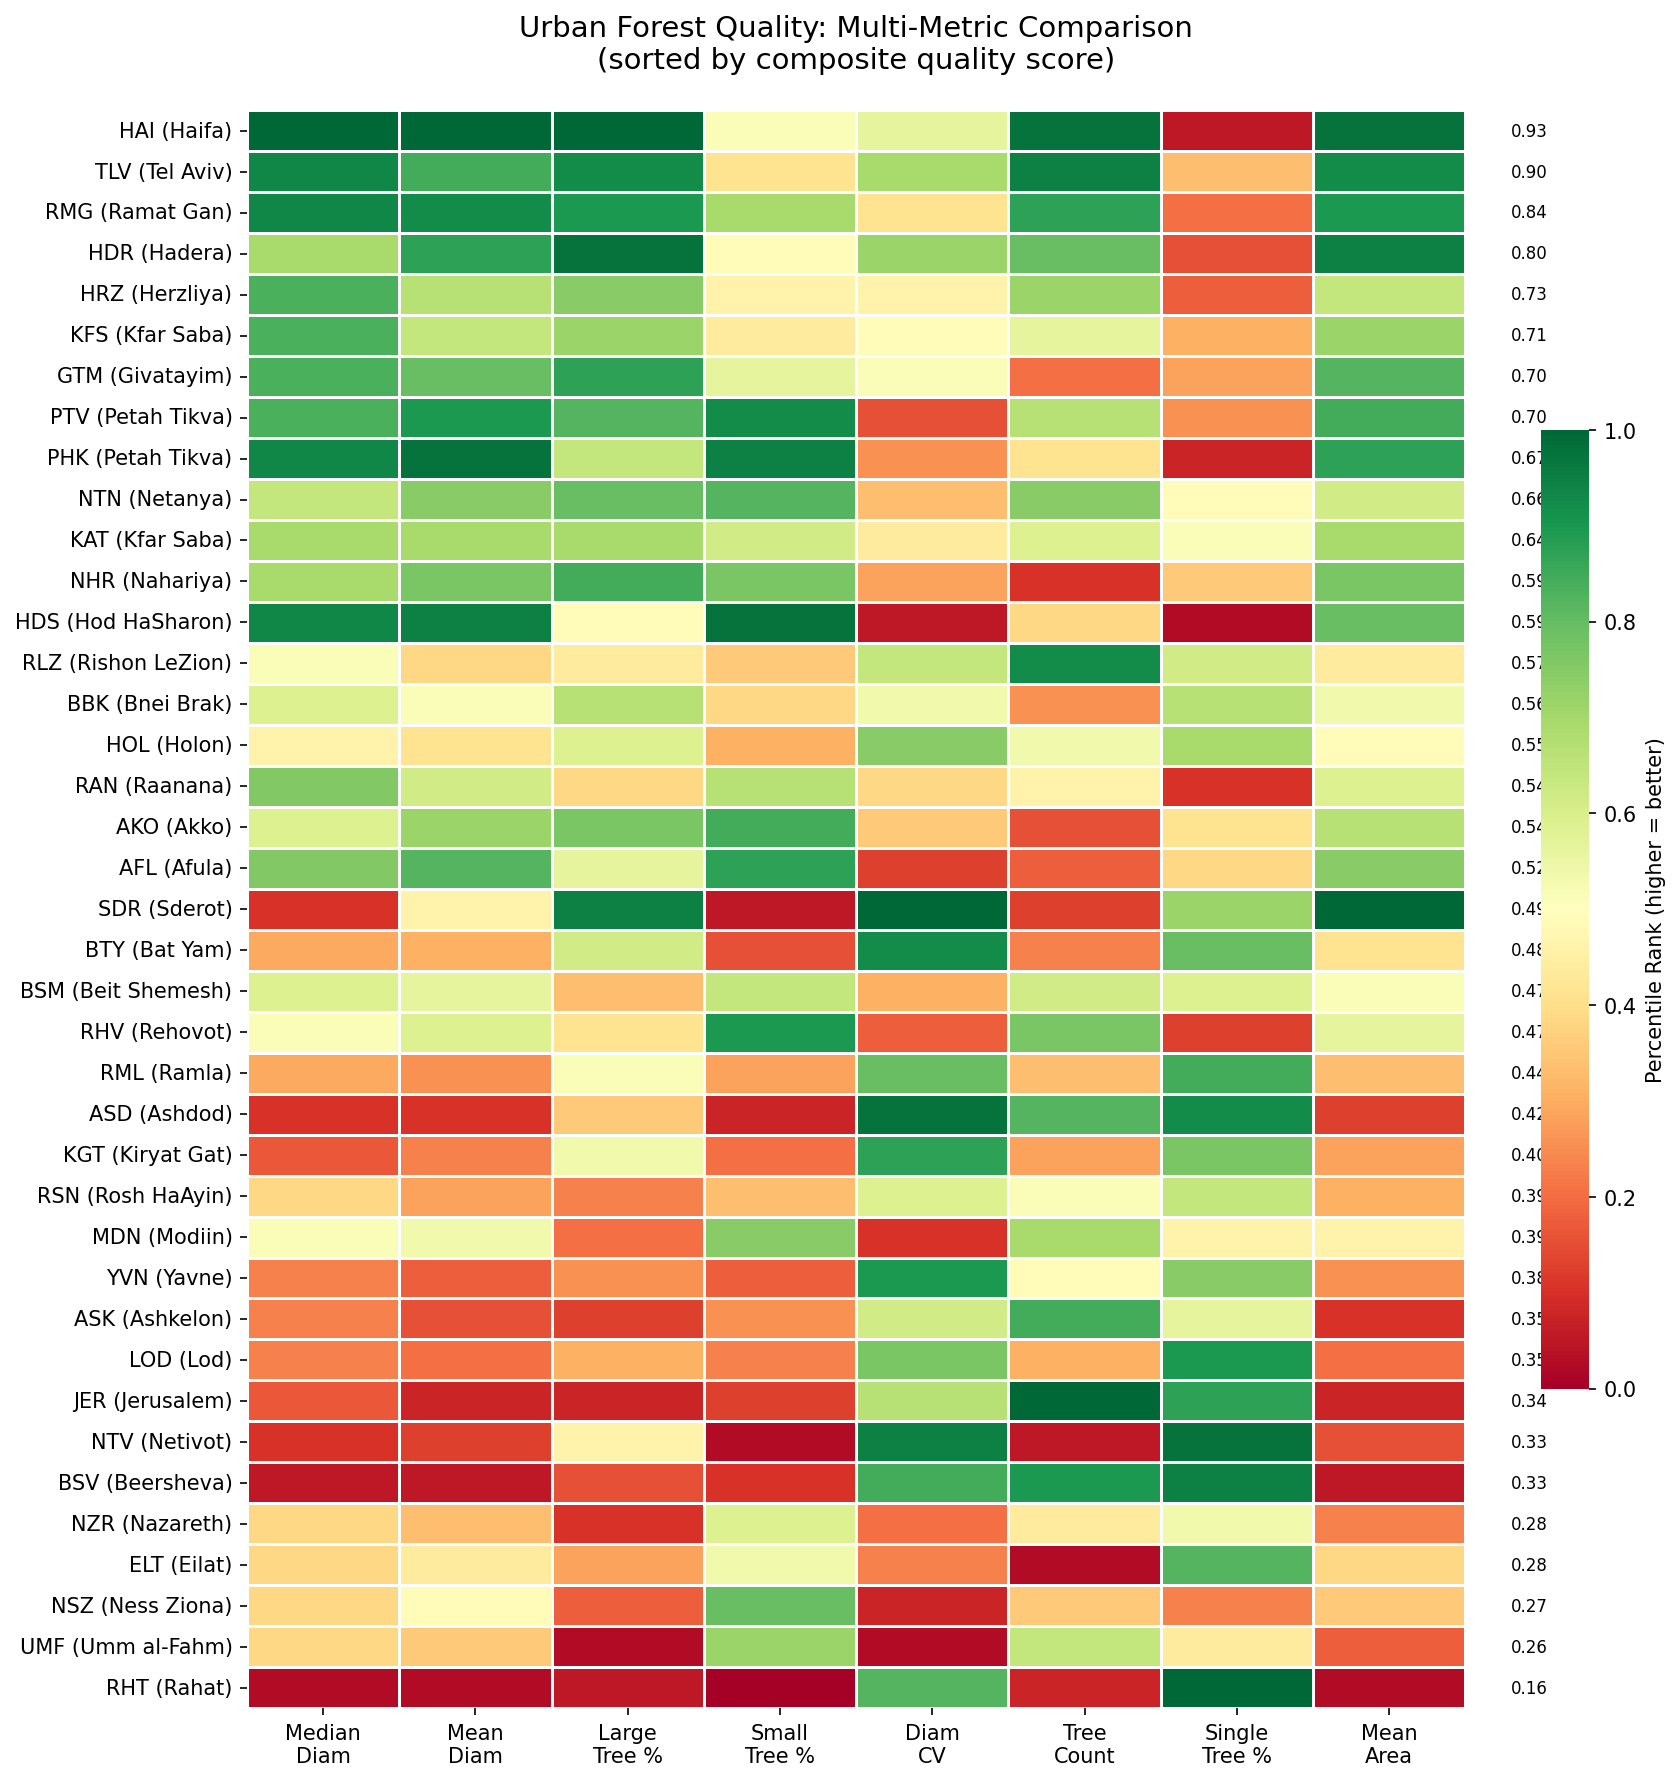
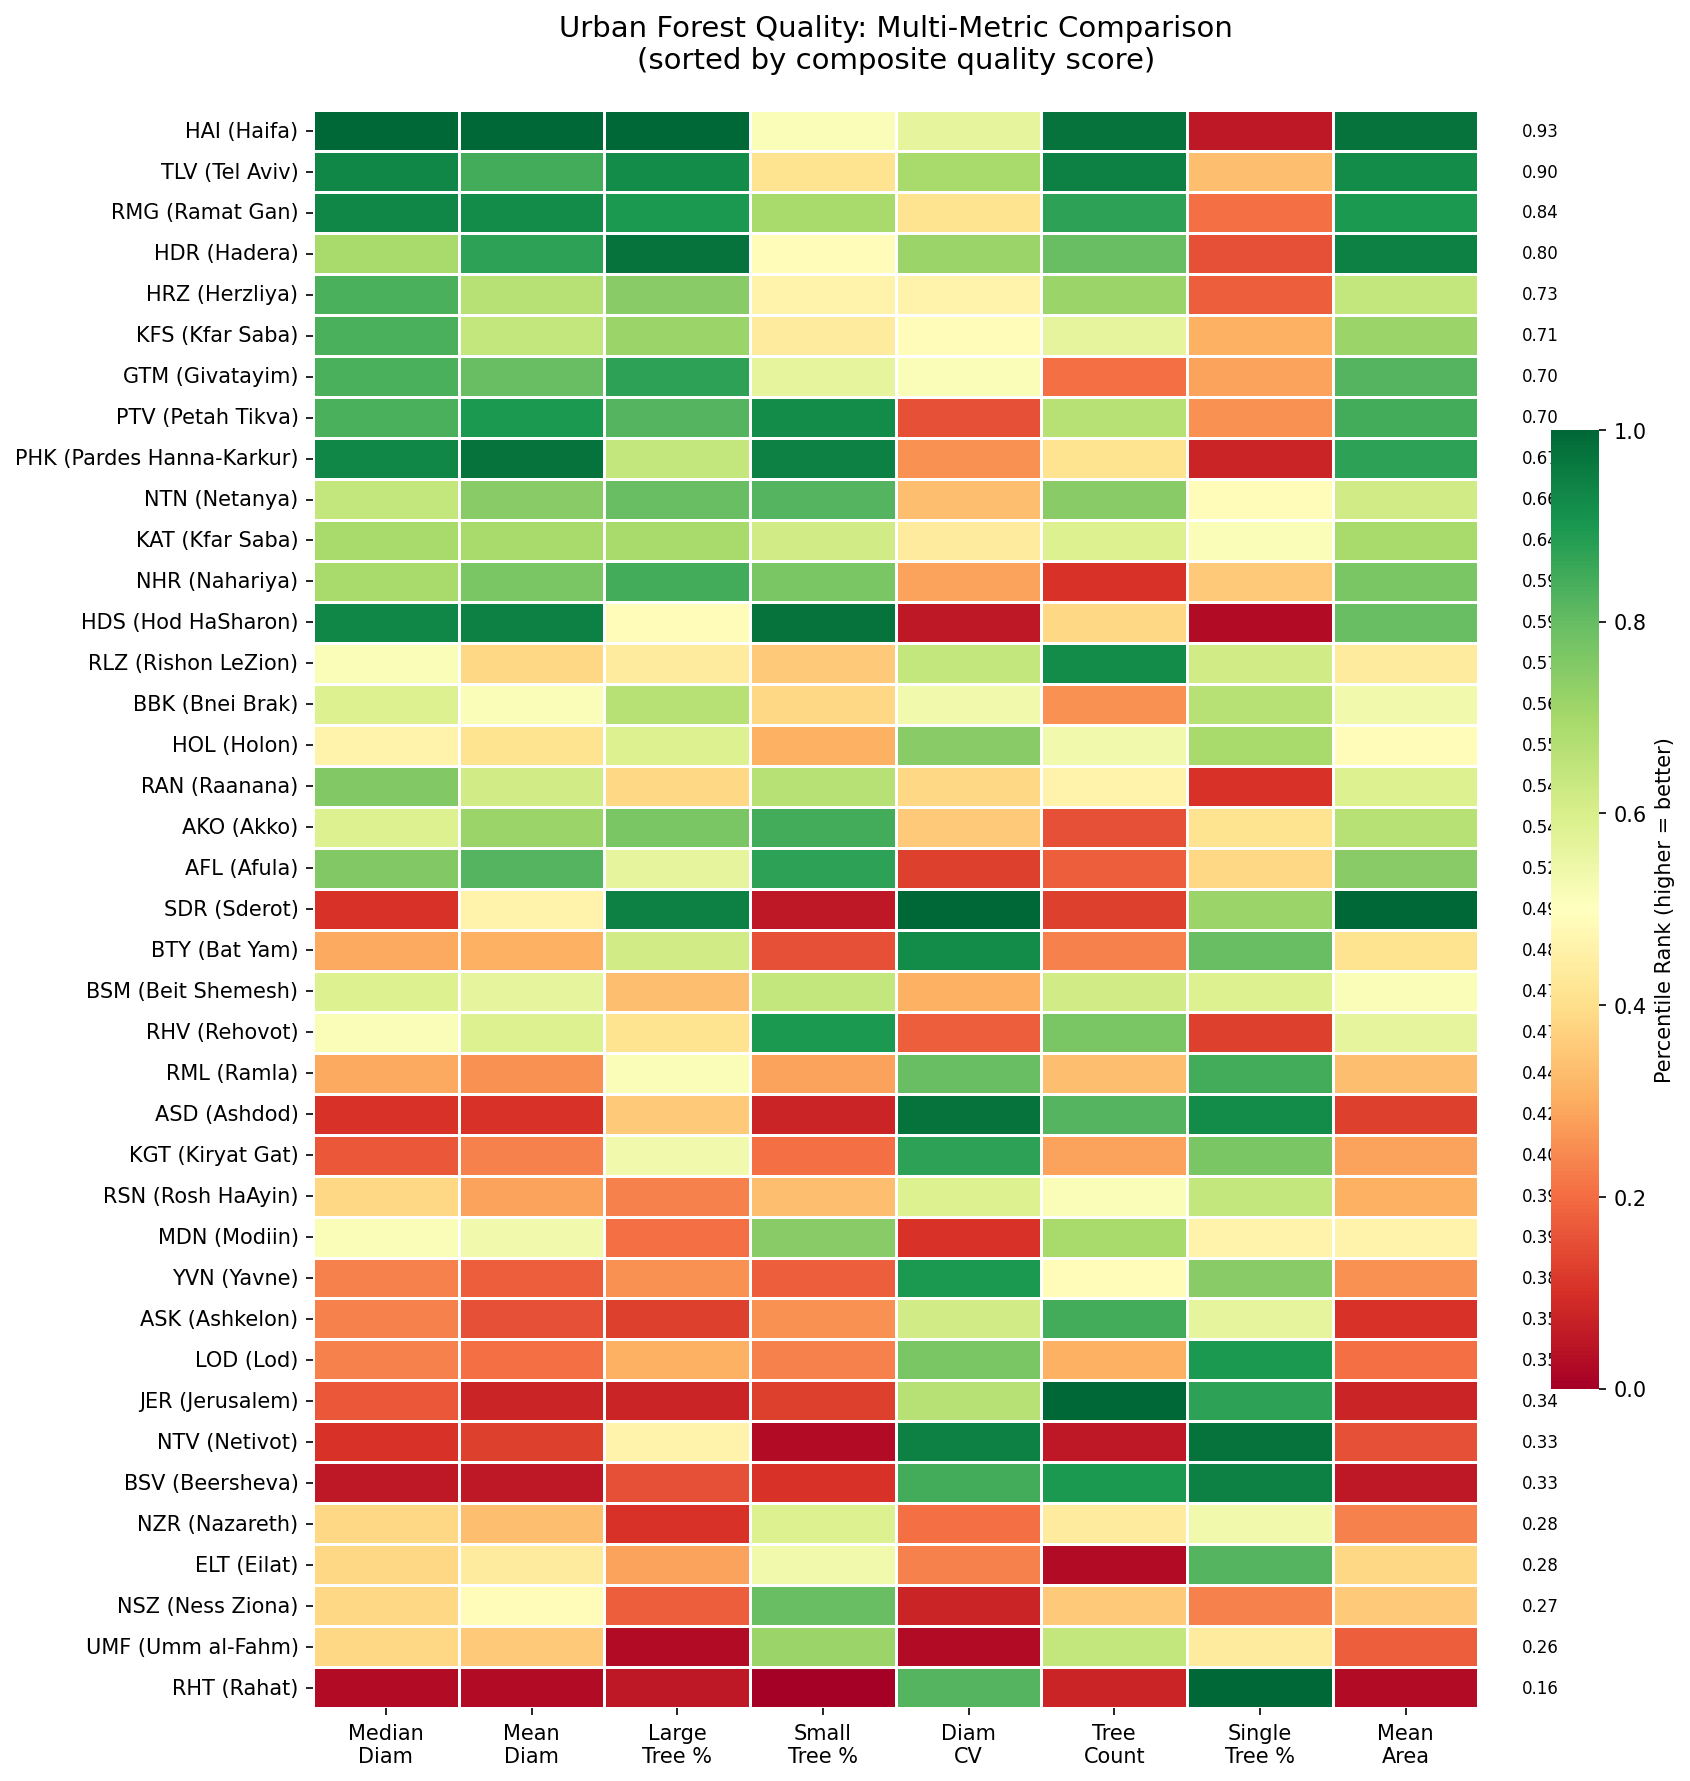
Fix PHK city name to Pardes Hanna-Karkur, add city_codes.csv

diff --git a/urban_forest_analysis.py b/urban_forest_analysis.py
@@ -62,7 +62,7 @@ CITY_NAMES = {
     'KAT': 'Kfar Saba', 'KFS': 'Kfar Saba', 'KGT': 'Kiryat Gat',
     'LOD': 'Lod', 'MDN': 'Modiin', 'NHR': 'Nahariya',
     'NSZ': 'Ness Ziona', 'NTN': 'Netanya', 'NTV': 'Netivot',
-    'NZR': 'Nazareth', 'PHK': 'Petah Tikva', 'PTV': 'Petah Tikva',
+    'NZR': 'Nazareth', 'PHK': 'Pardes Hanna-Karkur', 'PTV': 'Petah Tikva',
     'RAN': 'Raanana', 'RHT': 'Rahat', 'RHV': 'Rehovot',
     'RLZ': 'Rishon LeZion', 'RMG': 'Ramat Gan', 'RML': 'Ramla',
     'RSN': 'Rosh HaAyin', 'SDR': 'Sderot', 'TLV': 'Tel Aviv',

diff --git a/urban_forest_report.md b/urban_forest_report.md
@@ -60,7 +60,7 @@ The national distribution is right-skewed, with most trees in the 4-8m crown dia
 | 1 | HAI | Haifa | 6.9 | 6.9 | 4.2 | 237,438 |
 | 2 | HDS | Hod HaSharon | 6.6 | 6.7 | 2.6 | 44,197 |
 | 3 | RMG | Ramat Gan | 6.6 | 6.7 | 3.5 | 133,621 |
-| 4 | PHK | Petah Tikva | 6.6 | 6.8 | 3.0 | 44,381 |
+| 4 | PHK | Pardes Hanna-Karkur | 6.6 | 6.8 | 3.0 | 44,381 |
 | 5 | TLV | Tel Aviv | 6.6 | 6.6 | 4.0 | 212,127 |
 | 6 | KFS | Kfar Saba | 6.5 | 6.3 | 3.4 | 54,672 |
 | 7 | HRZ | Herzliya | 6.5 | 6.4 | 3.3 | 74,202 |
@@ -115,7 +115,7 @@ The national distribution is right-skewed, with most trees in the 4-8m crown dia
 | 6 | KFS | Kfar Saba | 0.706 | 6.5 m | 7.9% | 54,672 |
 | 7 | GTM | Givatayim | 0.703 | 6.5 m | 10.0% | 25,886 |
 | 7 | PTV | Petah Tikva | 0.703 | 6.5 m | 8.7% | 65,850 |
-| 9 | PHK | Petah Tikva | 0.667 | 6.6 m | 7.5% | 44,381 |
+| 9 | PHK | Pardes Hanna-Karkur | 0.667 | 6.6 m | 7.5% | 44,381 |
 | 10 | NTN | Netanya | 0.656 | 6.2 m | 8.0% | 74,475 |
 | 11 | KAT | Kfar Saba | 0.638 | 6.3 m | 7.8% | 55,064 |
 | 12 | NHR | Nahariya | 0.588 | 6.3 m | 8.8% | 22,227 |
@@ -251,7 +251,7 @@ No cities have 99th percentile > 25m.
 | KFS | Kfar Saba | 54,672 | 27,931 | 6.5 | 6.3 | 2.7 | 4.6 | 8.0 | 7.9 | 20.3 | 0.43 | 40 | 0.706 |
 | GTM | Givatayim | 25,886 | 13,323 | 6.5 | 6.5 | 2.8 | 4.7 | 8.3 | 10.0 | 19.0 | 0.43 | 40 | 0.703 |
 | PTV | Petah Tikva | 65,850 | 34,677 | 6.5 | 6.7 | 2.3 | 5.0 | 8.2 | 8.7 | 12.9 | 0.35 | 40 | 0.703 |
-| PHK | Petah Tikva | 44,381 | 20,858 | 6.6 | 6.8 | 2.4 | 5.2 | 8.2 | 7.5 | 11.2 | 0.36 | 34 | 0.667 |
+| PHK | Pardes Hanna-Karkur | 44,381 | 20,858 | 6.6 | 6.8 | 2.4 | 5.2 | 8.2 | 7.5 | 11.2 | 0.36 | 34 | 0.667 |
 | NTN | Netanya | 74,475 | 41,133 | 6.2 | 6.5 | 2.4 | 4.8 | 7.8 | 8.0 | 15.2 | 0.37 | 43 | 0.656 |
 | KAT | Kfar Saba | 55,064 | 30,524 | 6.3 | 6.4 | 2.6 | 4.6 | 7.9 | 7.8 | 18.2 | 0.41 | 44 | 0.638 |
 | NHR | Nahariya | 22,227 | 11,723 | 6.3 | 6.5 | 2.4 | 4.7 | 7.9 | 8.8 | 15.3 | 0.37 | 41 | 0.588 |
